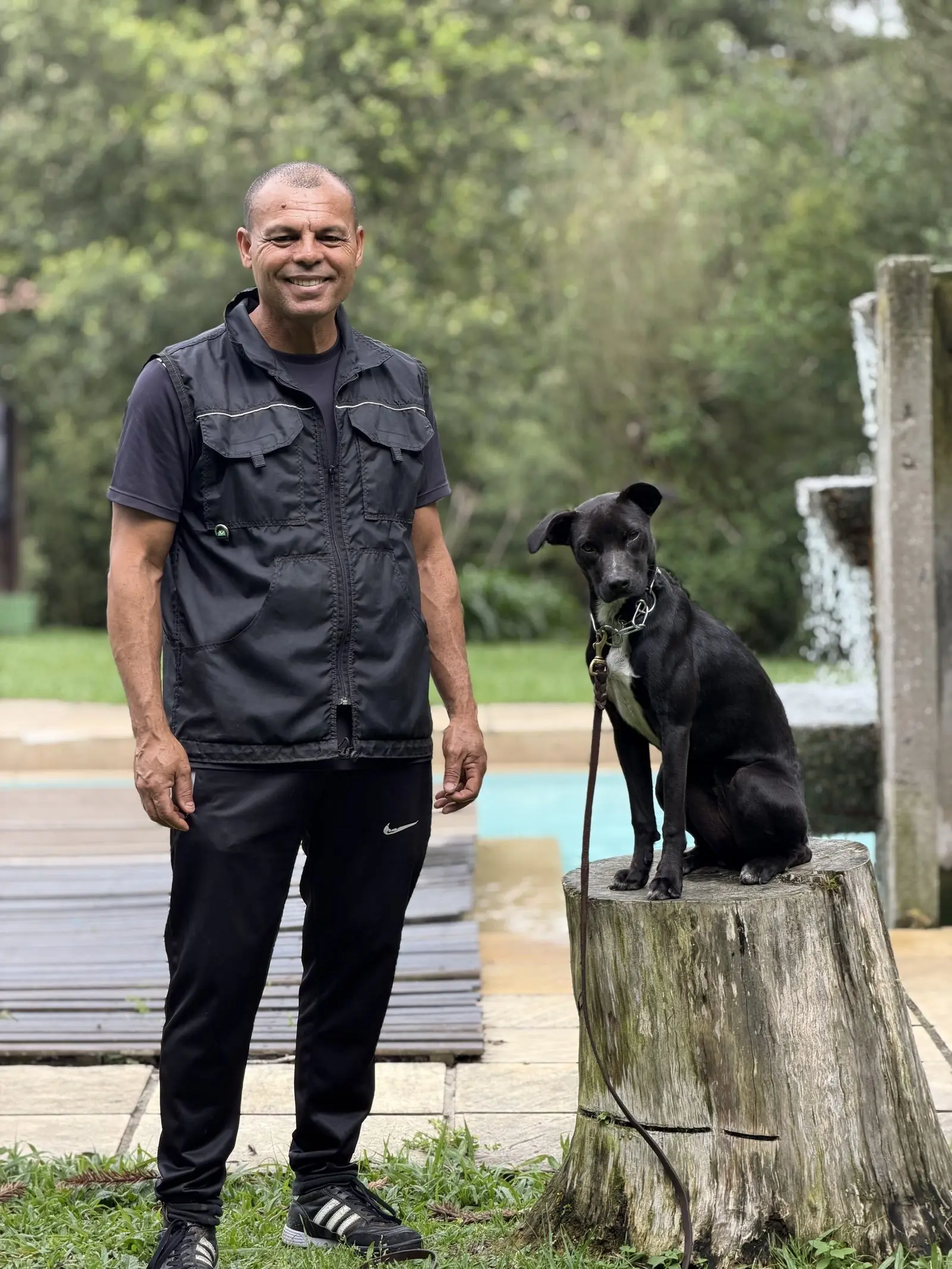
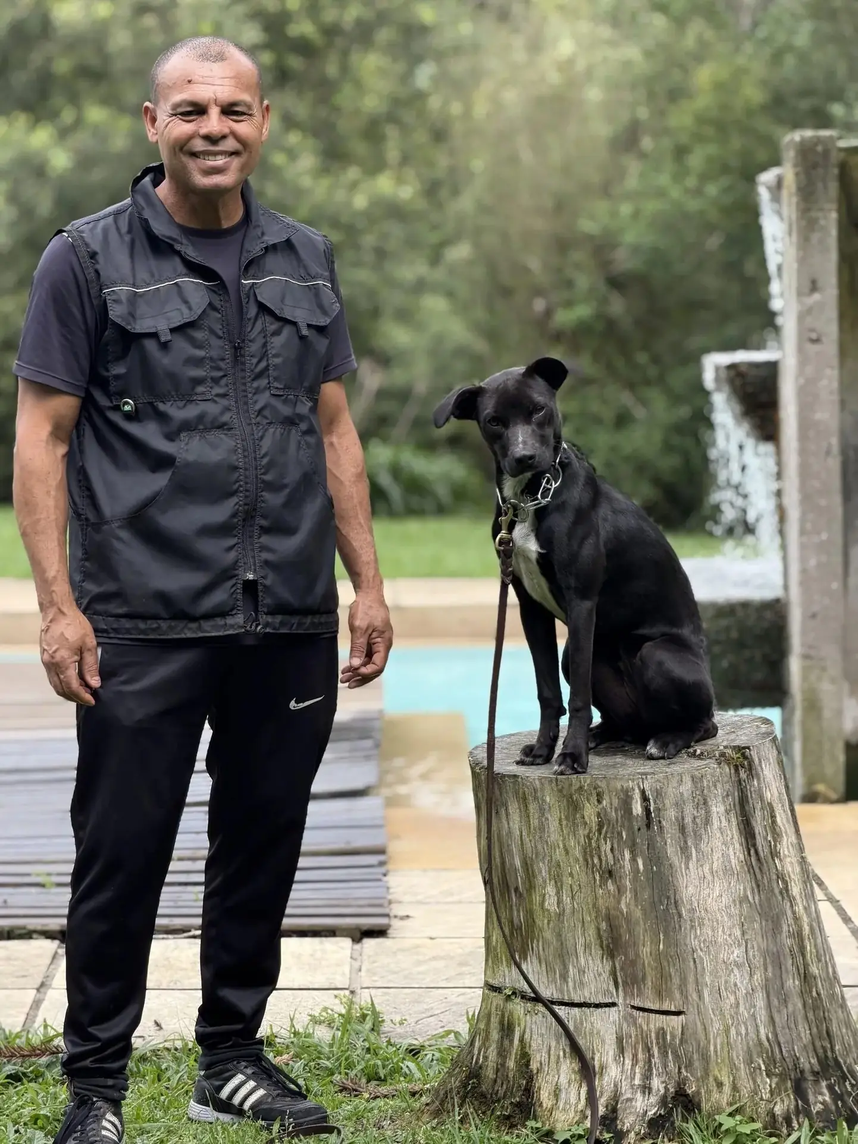
Atualiza fotos da capa do Sobre e remove bloco de endereço duplicado
Corrige a foto principal do site (capa-1), que tinha sido quebrada
por um commit anterior: um processo de sincronização substituiu o
capa-1.webp por um arquivo bruto (capa-1.jpeg) não processado, sem
eu perceber ao revisar. Reprocessei para .webp no padrão do site.

Atualiza também capa-3 do Sobre com a foto nova enviada. Em ambas,
a cabeça do fundador fica muito perto da borda superior da imagem
— travei object-position no topo (0%) para o corte automático do
hero nunca cortar parte da cabeça, em desktop e mobile.

Remove o bloco "Caminho do Vinho, Colônia Mergulhão" da seção Sobre
(HTML e CSS), agora redundante já que o endereço e o mapa do Google
já aparecem na seção de Contato.

diff --git a/index.html b/index.html
@@ -80,9 +80,9 @@
       <div class="shell section-hero-wrap">
         <div class="section-hero-panel reveal visible">
           <div class="section-hero-image hero-slideshow">
-            <img class="active" src="assets/sobre/capa-1.webp" alt="Canil Von Haus Sotter" width="1600" height="2133" loading="eager" decoding="async" fetchpriority="high">
+            <img class="active" src="assets/sobre/capa-1.webp" alt="Canil Von Haus Sotter" width="1493" height="1989" loading="eager" decoding="async" fetchpriority="high" style="object-position:center 0%">
             <img src="assets/sobre/capa-2.webp" alt="Cão do Canil Von Haus Sotter em treinamento" width="1600" height="2133" loading="lazy" decoding="async">
-            <img src="assets/sobre/capa-3.webp" alt="Fundador do Canil Von Haus Sotter premiado em campeonato" width="1600" height="2133" loading="lazy" decoding="async">
+            <img src="assets/sobre/capa-3.webp" alt="Fundador do Canil Von Haus Sotter com cão preto e branco" width="1442" height="1922" loading="lazy" decoding="async" style="object-position:center 0%">
           </div>
           <div class="section-hero-copy">
             <p class="kicker">CANIL VON HAUS SOTTER</p>
@@ -109,14 +109,6 @@
             <div class="fact-card"><span class="fact-num">10.000 m²</span><span class="fact-label">Exclusivos do Centro de Treinamento</span></div>
             <div class="fact-card fact-wide"><span class="fact-label"><svg class="icon icon-inline"><use href="#i-home"/></svg> <b>Área indoor coberta</b> — estrutura para treinos e atividades em qualquer condição climática.</span></div>
             <div class="fact-card fact-wide"><span class="fact-label"><svg class="icon icon-inline"><use href="#i-tree"/></svg> <b>Ambiente seguro</b> — árvores, amplo espaço e tranquilidade para relaxamento, bem-estar e confiança.</span></div>
-          </div>
-        </div>
-
-        <div class="location-strip reveal">
-          <span class="loc-icon"><svg class="icon"><use href="#i-pin"/></svg></span>
-          <div>
-            <h3>Caminho do Vinho, Colônia Mergulhão</h3>
-            <p>São José dos Pinhais - PR, em meio à natureza e cercado de área verde.</p>
           </div>
         </div>
 

diff --git a/styles.css b/styles.css
@@ -95,11 +95,6 @@ body.menu-open .nav-backdrop{opacity:1;pointer-events:auto}
 .fact-card.fact-wide{grid-column:1/-1}
 .fact-card.fact-wide .fact-label{color:#c3beb4;font-size:14px}
 
-.location-strip{display:grid;grid-template-columns:auto 1fr;gap:22px;align-items:center;padding:26px 0}
-.location-strip .loc-icon{width:52px;height:52px;border-radius:50%;background:rgba(201,154,46,.1);border:1px solid var(--line);display:grid;place-items:center;color:var(--gold);font-size:22px;flex:0 0 auto}
-.location-strip h3{margin:0 0 4px;font-family:Georgia,serif;font-weight:400;font-size:19px;color:#fff}
-.location-strip p{margin:0;color:var(--muted);font-size:14px}
-
 .structure-photos{display:grid;grid-template-columns:1fr 1fr;gap:14px;padding:44px 0 20px}
 .structure-photo{position:relative;border-radius:12px;overflow:hidden;border:1px solid var(--line);aspect-ratio:4/3}
 .structure-photo img{width:100%;height:100%;object-fit:cover;position:absolute;inset:0;cursor:zoom-in;transition:transform .8s ease}
